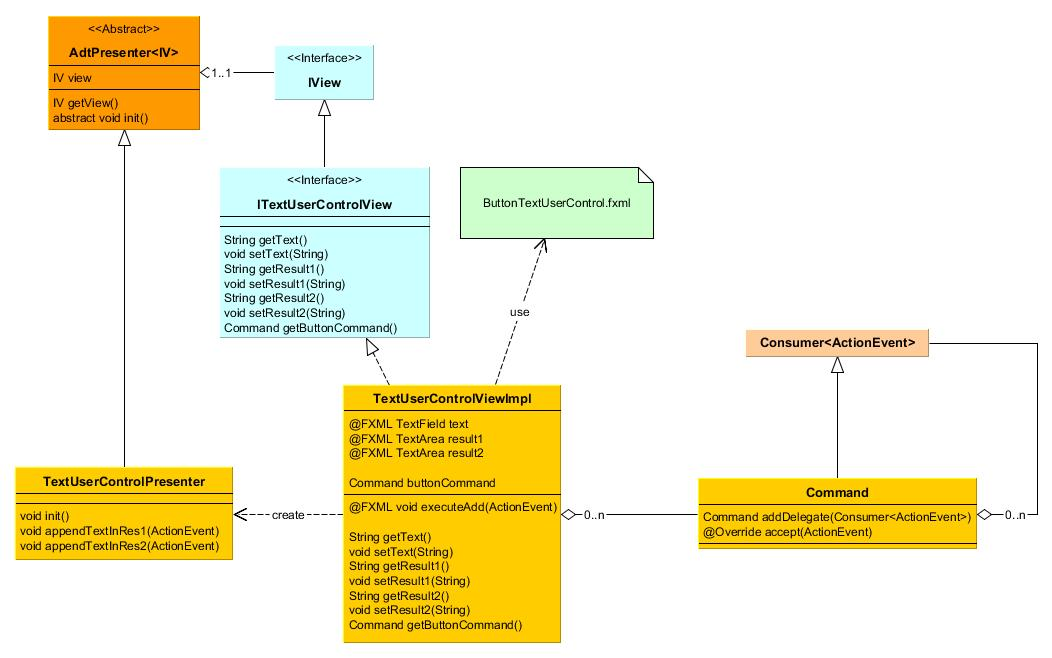
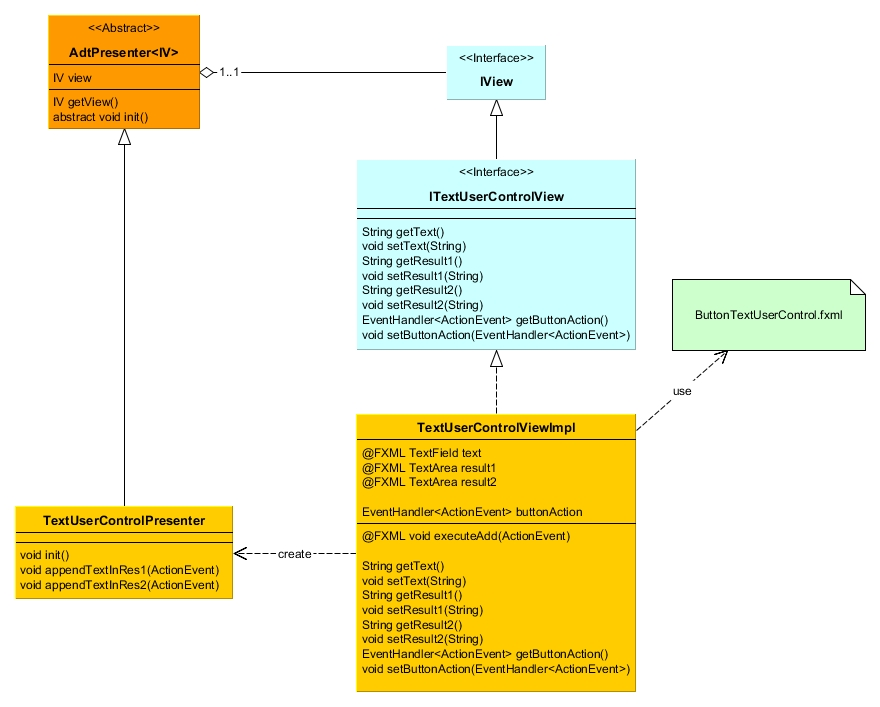
Add again IView Remove PNG

diff --git a/src/main/java/AdtPresenter.java b/src/main/java/AdtPresenter.java
@@ -3,7 +3,7 @@ import javafx.fxml.Initializable;
 /**
  * Created by Olivier on 01/12/2015.
  */
-public abstract class AdtPresenter<IV>  {
+public abstract class AdtPresenter<IV extends IView>  {
 
     private IV view;
 

diff --git a/src/main/java/ITextUserControlView.java b/src/main/java/ITextUserControlView.java
@@ -1,7 +1,7 @@
 import javafx.event.ActionEvent;
 import javafx.event.EventHandler;
 
-public interface ITextUserControlView {
+public interface ITextUserControlView extends IView{
 
     String getText();
 

diff --git a/src/main/java/IView.java b/src/main/java/IView.java
@@ -1,0 +1,5 @@
+/**
+ * Created by Olivier on 02/12/2015.
+ */
+public interface IView {
+}

diff --git a/README.md b/README.md
@@ -4,7 +4,7 @@ Show how implements MVP pattern with JavaFX and how testing it
 
 The class diagram is
 
-![Class diagram](https://github.com/oterrien/JavaFX_Presenter/blob/master/class.diag.png)
+![Class diagram](https://github.com/oterrien/JavaFX_Presenter/blob/master/class.diag.jpg)
 
 The view interface provides the intention of the view.
 
